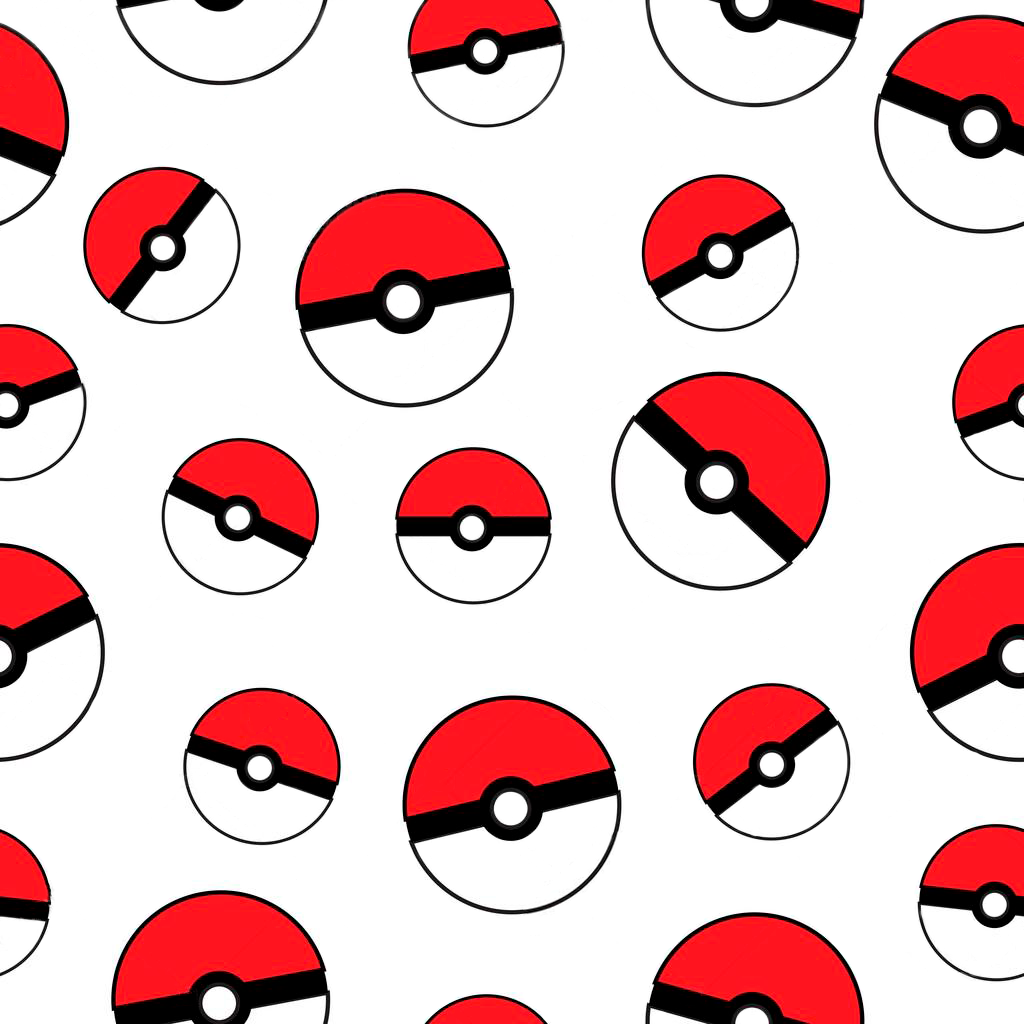
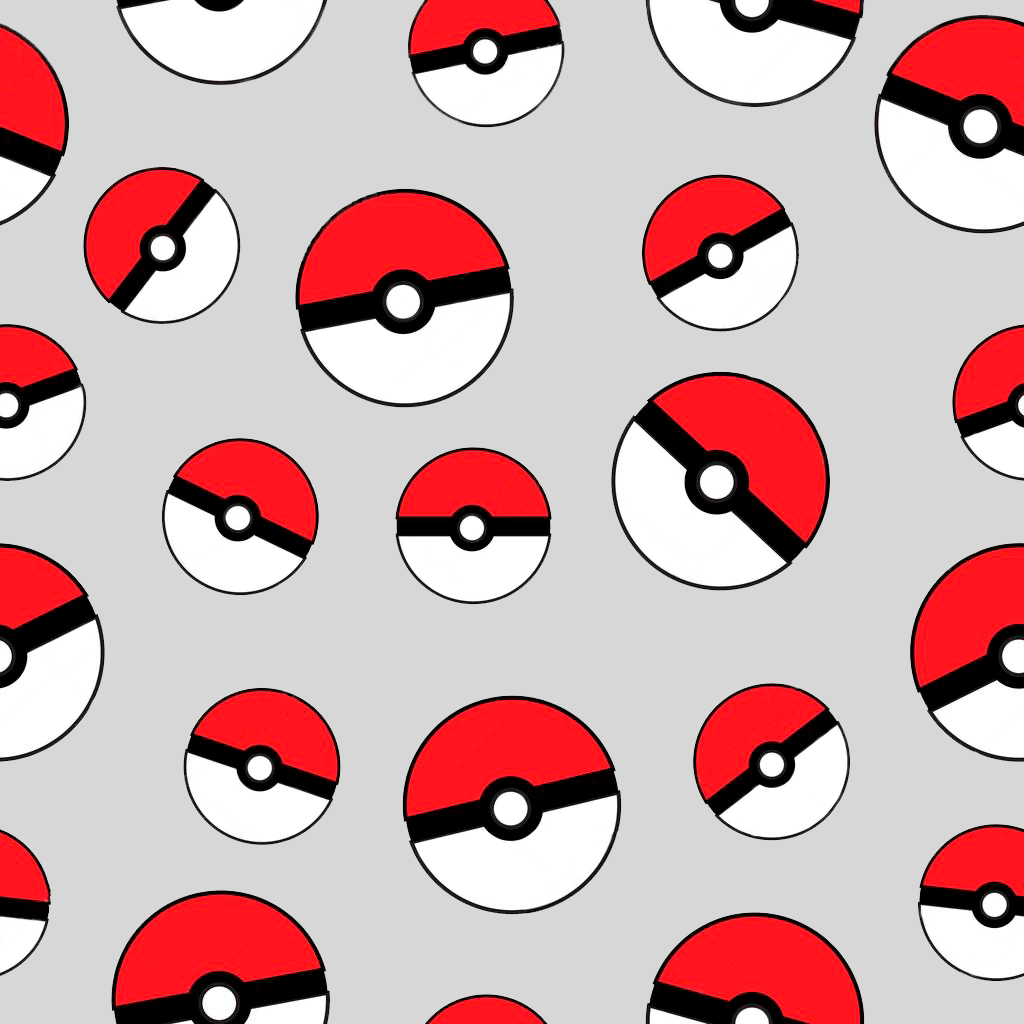
se habilita modo oscuro

diff --git a/css/style.css b/css/style.css
@@ -11,6 +11,12 @@ body {
   -webkit-box-align: center;
       -ms-flex-align: center;
           align-items: center;
+  background-image: url("../img/fondoClaroPrincipal.png");
+  background-size: contain;
+  -webkit-transition-property: background-image;
+  transition-property: background-image;
+  -webkit-transition-duration: 0.3s;
+          transition-duration: 0.3s;
 }
 
 body main {
@@ -36,13 +42,10 @@ body main .fa-circle-half-stroke {
   font-size: 2rem;
   border-radius: 5rem;
   cursor: pointer;
-  -webkit-transition: background-color, color, 0.4s;
-  transition: background-color, color, 0.4s;
-}
-
-body main .fa-circle-half-stroke:hover {
-  color: white;
-  background-color: black;
+  -webkit-transition-property: color;
+  transition-property: color;
+  -webkit-transition-duration: 0.3s;
+          transition-duration: 0.3s;
 }
 
 body main #banner {
@@ -87,20 +90,30 @@ body main section article {
   width: 50%;
 }
 
-body main section article h1 {
+body main section article #tituloPortada {
   margin: 0;
   font-family: 'Fugaz One', cursive;
   font-size: 5rem;
+  color: black;
+  -webkit-transition-property: color;
+  transition-property: color;
+  -webkit-transition-duration: 0.3s;
+          transition-duration: 0.3s;
 }
 
-body main section article p {
+body main section article #textoPortada {
   margin: 0;
   font-family: 'Oswald', sans-serif;
   font-size: 3rem;
+  color: black;
+  -webkit-transition-property: color;
+  transition-property: color;
+  -webkit-transition-duration: 0.3s;
+          transition-duration: 0.3s;
 }
 
 body #seccionCarta {
-  background-image: url("../img/fondoOscuroCartas.png");
+  background-image: url("../img/fondoClaroCartas.png");
   margin: 0;
   padding: 1.5rem 0;
   width: 95%;
@@ -114,6 +127,11 @@ body #seccionCarta {
           align-items: center;
   justify-items: center;
   border-radius: 1.5rem;
+  border: 0.2rem solid black;
+  -webkit-transition-property: background-image;
+  transition-property: background-image;
+  -webkit-transition-duration: 0.3s;
+          transition-duration: 0.3s;
 }
 
 body #seccionCarta .Electrico {

diff --git a/css/style.scss b/css/style.scss
@@ -10,6 +10,10 @@ body {
     padding: 2rem 0;
     @include flex(column);
     align-items: center;
+    background-image: url('../img/fondoClaroPrincipal.png');
+    background-size: contain;
+    transition-property: background-image;
+    transition-duration: 0.3s;
 
     main {
         @include flex(column);
@@ -24,11 +28,8 @@ body {
             font-size: 2rem;
             border-radius: 5rem;
             cursor: pointer;
-            transition: background-color, color, 0.4s;
-        }
-        .fa-circle-half-stroke:hover {
-            color: white;
-            background-color: black;
+            transition-property: color;
+            transition-duration: 0.3s;
         }
 
         #banner {
@@ -53,24 +54,29 @@ body {
                 justify-content: space-between;
                 width: 50%;
 
-                h1 {
+                #tituloPortada {
                     margin: 0;
                     font-family: 'Fugaz One', cursive;
                     font-size: 5rem;
+                    color: black;
+                    transition-property: color;
+                    transition-duration: 0.3s;
                 }
-                
-                p {
+
+                #textoPortada {
                     margin: 0;
                     font-family: 'Oswald', sans-serif;
                     font-size: 3rem;
-                    ///text-align: justify;
+                    color: black;
+                    transition-property: color;
+                    transition-duration: 0.3s;
                 }
             }
         }
     }
 
     #seccionCarta {
-        background-image: url('../img/fondoOscuroCartas.png');
+        background-image: url('../img/fondoClaroCartas.png');
         margin: 0;
         padding: 1.5rem 0;
         width: 95%;
@@ -80,6 +86,9 @@ body {
         align-items: center;
         justify-items: center;
         border-radius: 1.5rem;
+        border: 0.2rem solid black;
+        transition-property: background-image;
+        transition-duration: 0.3s;
         
         ///COLORES CARTAS
         .Electrico {

diff --git a/js/animacion.js b/js/animacion.js
@@ -3,6 +3,12 @@ const pokedexInferior = document.getElementById("pokeInferior");
 const pokedexPantalla = document.getElementById("pantalla");
 const botonPokedex = document.getElementById("boton");
 const contenidoPantalla = document.getElementById("infoPantalla");
+const botonModoOscuro = document.querySelector(".fa-circle-half-stroke");
+const cuerpo = document.querySelector("body");
+const contenedorCartas = document.getElementById("seccionCarta");
+const tituloPortada = document.getElementById("tituloPortada");
+const textoPortada = document.getElementById("textoPortada");;
+let modoOscuroOn = true;
 
 /// POKEDEX
 botonPokedex.onclick = function() {
@@ -55,3 +61,21 @@ const cerrarPokedex = () => {
 }
 
 /// MODO OSCURO
+botonModoOscuro.onclick = function () {
+    if (modoOscuroOn) {
+        botonModoOscuro.style.color = 'white';
+        cuerpo.style.backgroundImage = `url('../img/fondoOscuroPrincipal.png')`;
+        contenedorCartas.style.backgroundImage = `url('../img/fondoOscuroCartas.png')`;
+        tituloPortada.style.color = 'white';
+        textoPortada.style.color = 'white';
+        modoOscuroOn = !modoOscuroOn;
+    }
+    else {
+        botonModoOscuro.style.color = 'black';
+        cuerpo.style.backgroundImage = `url('../img/fondoClaroPrincipal.png')`;
+        contenedorCartas.style.backgroundImage = `url('../img/fondoClaroCartas.png')`;
+        tituloPortada.style.color = 'black';
+        textoPortada.style.color = 'black';
+        modoOscuroOn = !modoOscuroOn;
+    }
+}

diff --git a/index.html b/index.html
@@ -18,12 +18,12 @@
 <body>
     <main>
         <i class="fa-solid fa-circle-half-stroke"></i>
-        <img id="banner" src="./img/banner.gif" alt="banner con la palabra pokemon">
+        <img id="banner" src="./img/banner2.gif" alt="banner con la palabra pokemon">
         <section>
             <img src="./img/demoPokedex.gif" alt="secuencia de imagenes que muestra el uso de un pokedex">
             <article>
-                <h1>POKEDEX</h1>
-                <p>
+                <h1 id="tituloPortada">POKEDEX</h1>
+                <p id="textoPortada">
                     Bienvenido! Haz clic en el Pokedex debajo para iniciarlo
                     y así poder buscar informacion de los Pokemones.
                 </p>
